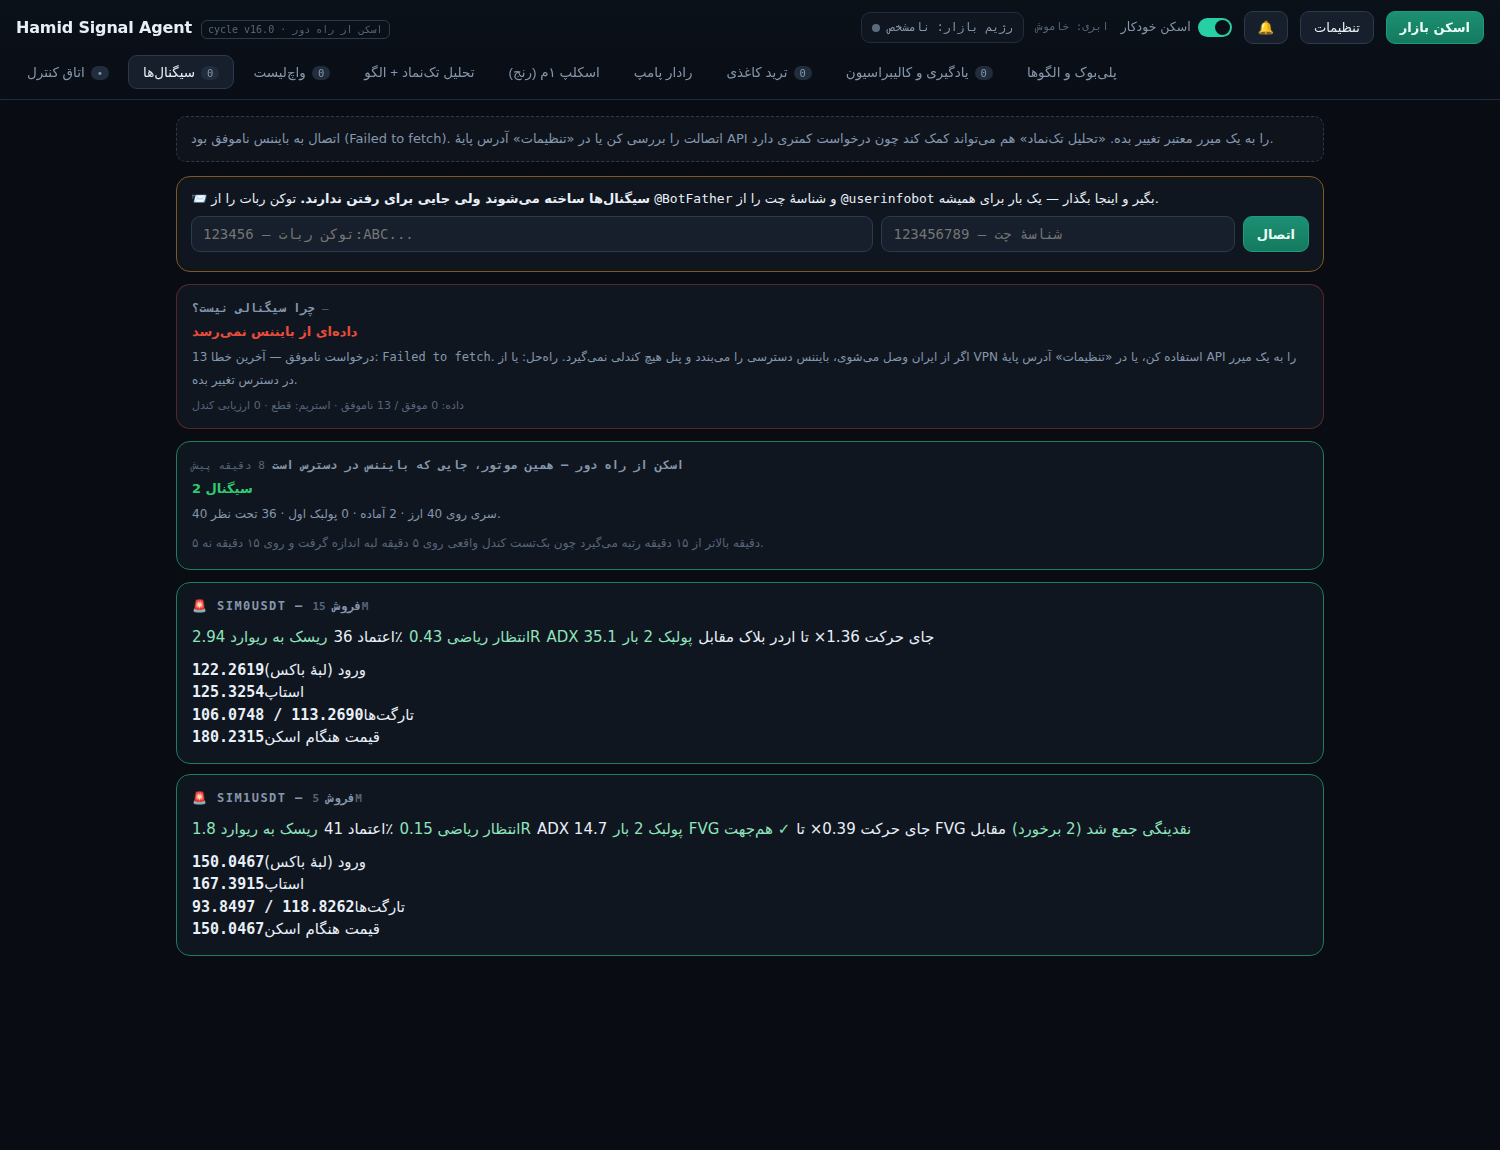
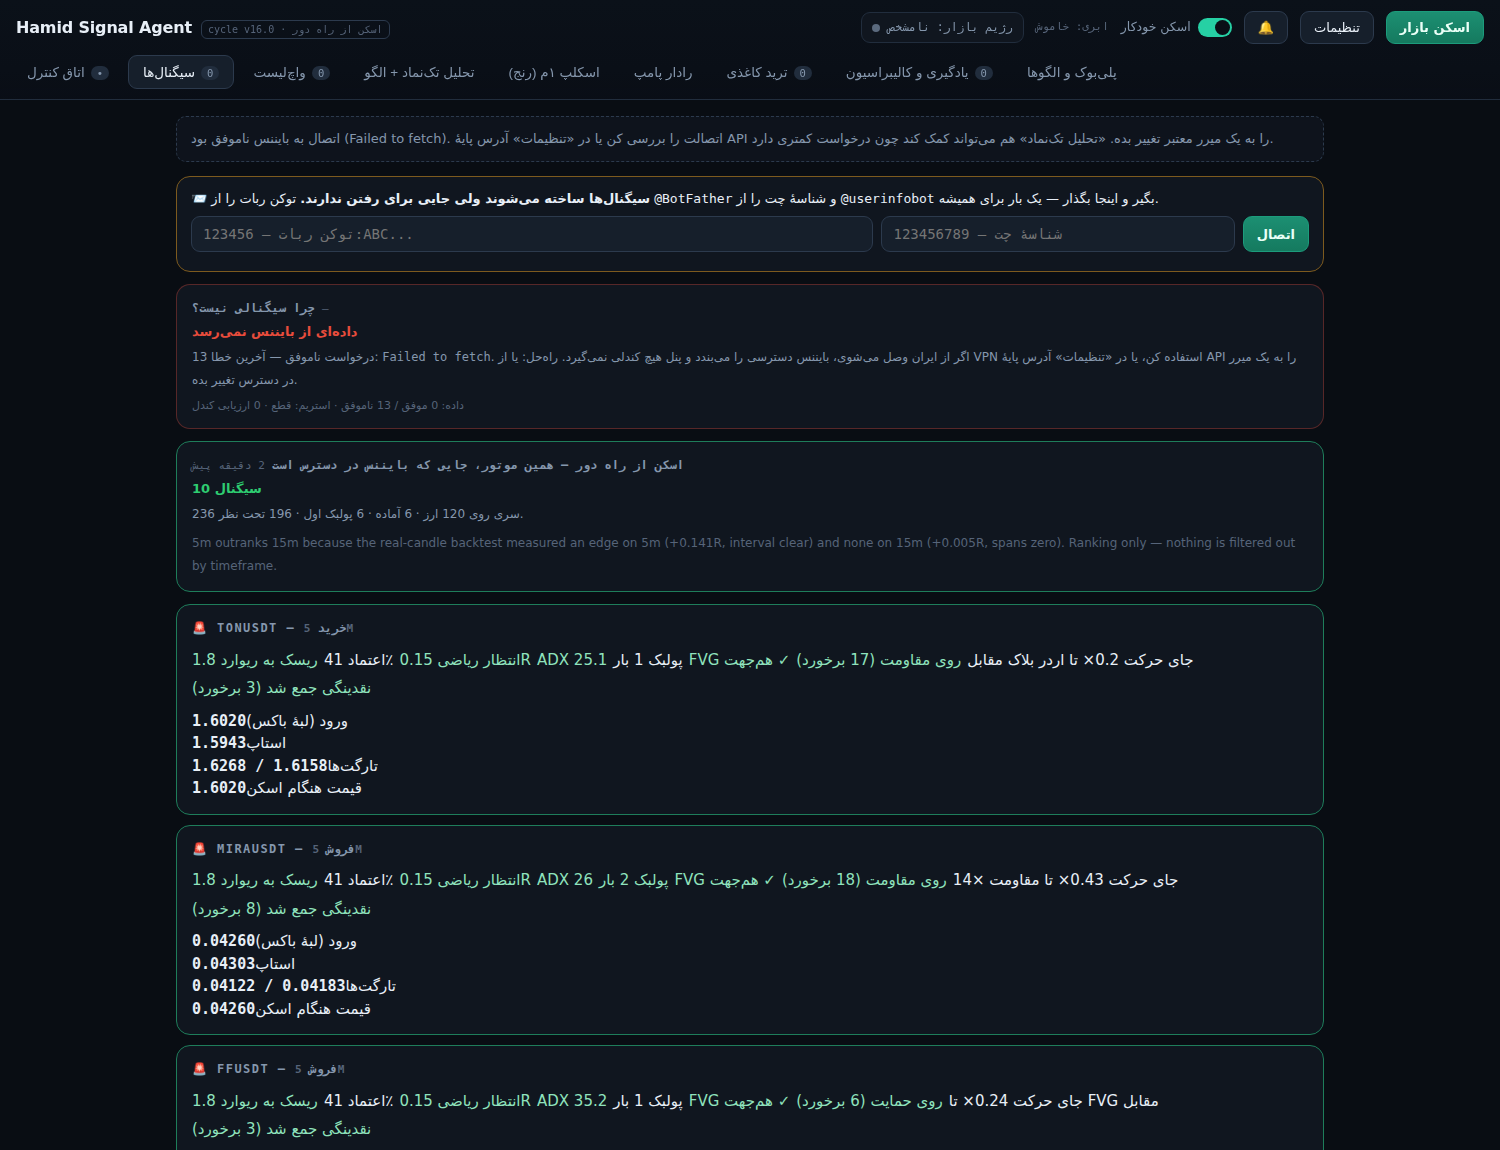
Show the setups that are one candle from firing, and say it in Persian
Two gaps the first real scan exposed.

When the scan finds no signal the panel showed a single count and nothing else,
which hides the only actionable thing on the screen: the setups already inside
the order block, waiting on a close outside it. Those now appear as a compact
list with entry, stop, target, risk-to-reward and the gate that is holding each
one back — six of them on this scan, every one held by the ADX floor.

And the note explaining the 5m ranking was written in English inside a Persian
panel. Translated, in scan.py so future scans carry it, and in the file already
published.

First real scan: 120 symbols, 236 series, 10 signals — 8 on 5m and 2 on 15m,
which is the ordering doing what it was measured to do.

Claude-Session: https://claude.ai/code/session_01Hmz5ep1FQiSRdvnpYTDsuE

diff --git a/index.html b/index.html
@@ -3151,7 +3151,25 @@ function relayHTML(){
       ${j.signals.length?"":"این یک نتیجهٔ عادی است، نه خرابی."}
       <div style="margin-top:6px" class="dim">${j.note||""}</div>
     </div></div>`;
-  return head+j.signals.slice(0,12).map(relayCard).join("");
+  /* When nothing has fired, the setups already inside the box are the whole
+     story — they are one candle close away, and a bare count hides them. */
+  const armed=(j.watch||[]).filter(s=>s.stage==="ARMED"||s.stage==="PULLBACK_1").slice(0,10);
+  const near=armed.length?`<div class="box" style="margin-top:10px;border-color:#f0a92e55">
+    <h3 style="margin:0 0 6px">نزدیکترینها به سیگنال</h3>
+    <div class="dim" style="font-size:11px;margin-bottom:6px">
+      «آماده» یعنی قیمت داخل اردر بلاک است و فقط منتظر بسته شدن کندل بیرون از باکس.</div>
+    ${armed.map(s=>`<div style="display:flex;gap:8px;align-items:center;flex-wrap:wrap;
+        padding:5px 0;border-top:1px solid rgba(140,160,190,.10);font-size:12px">
+      <b class="mono" style="min-width:104px">${s.sym}</b>
+      <span class="mono dim" style="min-width:34px">${s.tf}</span>
+      <span style="min-width:42px;color:${s.dir==="LONG"?"#2ecc71":"#e74c3c"}">${s.dir==="LONG"?"خرید":"فروش"}</span>
+      <span class="chip" style="${s.stage==="ARMED"?"border-color:#7a5a1e;color:#f0c675":""}">
+        ${s.stage==="ARMED"?"آماده":"پولبک اول"}</span>
+      <span class="dim">ورود ${fmt(s.entry)} · استاپ ${fmt(s.sl)} · تارگت ${fmt(s.tp1)}</span>
+      <span class="dim">R:R ${s.rr} · اعتماد ${s.conf}٪</span>
+      ${s.skip?`<span class="dim" style="flex-basis:100%;color:#8b98ab">مانع: ${s.skip}</span>`:""}
+    </div>`).join("")}</div>`:"";
+  return head+j.signals.slice(0,12).map(relayCard).join("")+near;
 }
 
 function renderWhy(){

diff --git a/claude-liam-signal/python/scan.py b/claude-liam-signal/python/scan.py
@@ -112,9 +112,10 @@ def main():
         "symbols": len(syms), "series": len(jobs), "timeframes": tfs,
         "counts": counts,
         "context": usdt_dominance(),
-        "note": "5m outranks 15m because the real-candle backtest measured an edge "
-                "on 5m (+0.141R, interval clear) and none on 15m (+0.005R, spans zero). "
-                "Ranking only — nothing is filtered out by timeframe.",
+        "note": "۵ دقیقه بالاتر از ۱۵ دقیقه رتبه میگیرد، چون بکتست روی کندل واقعی "
+                "روی ۵ دقیقه لبه اندازه گرفت (+۰.۱۴۱R با بازهٔ کاملاً بالای صفر) و روی "
+                "۱۵ دقیقه نه (+۰.۰۰۵R، بازه صفر را در بر میگیرد). این فقط رتبهبندی است — "
+                "هیچ ارزی بهخاطر تایمفریمش حذف نمیشود.",
         "signals": signals,
         "watch": [s for s in setups if s["stage"] != "SIGNAL"][:60],
     }
